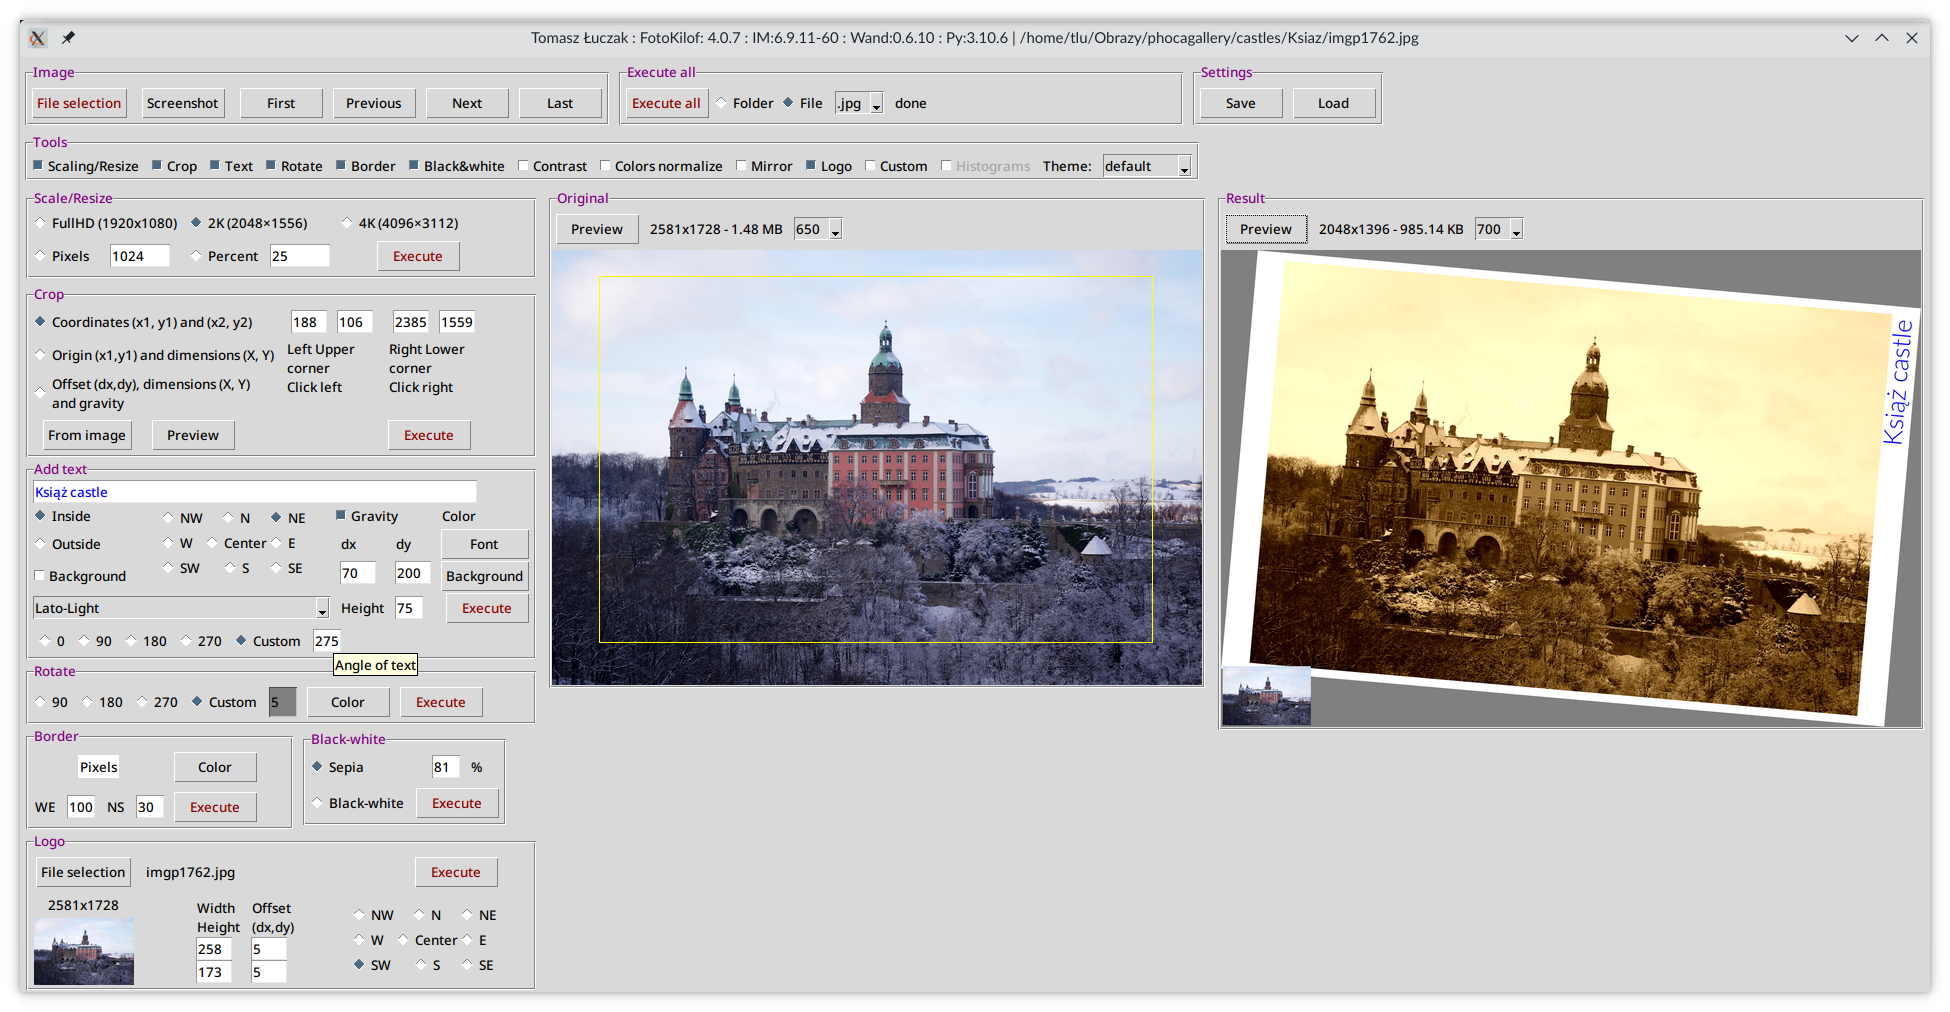
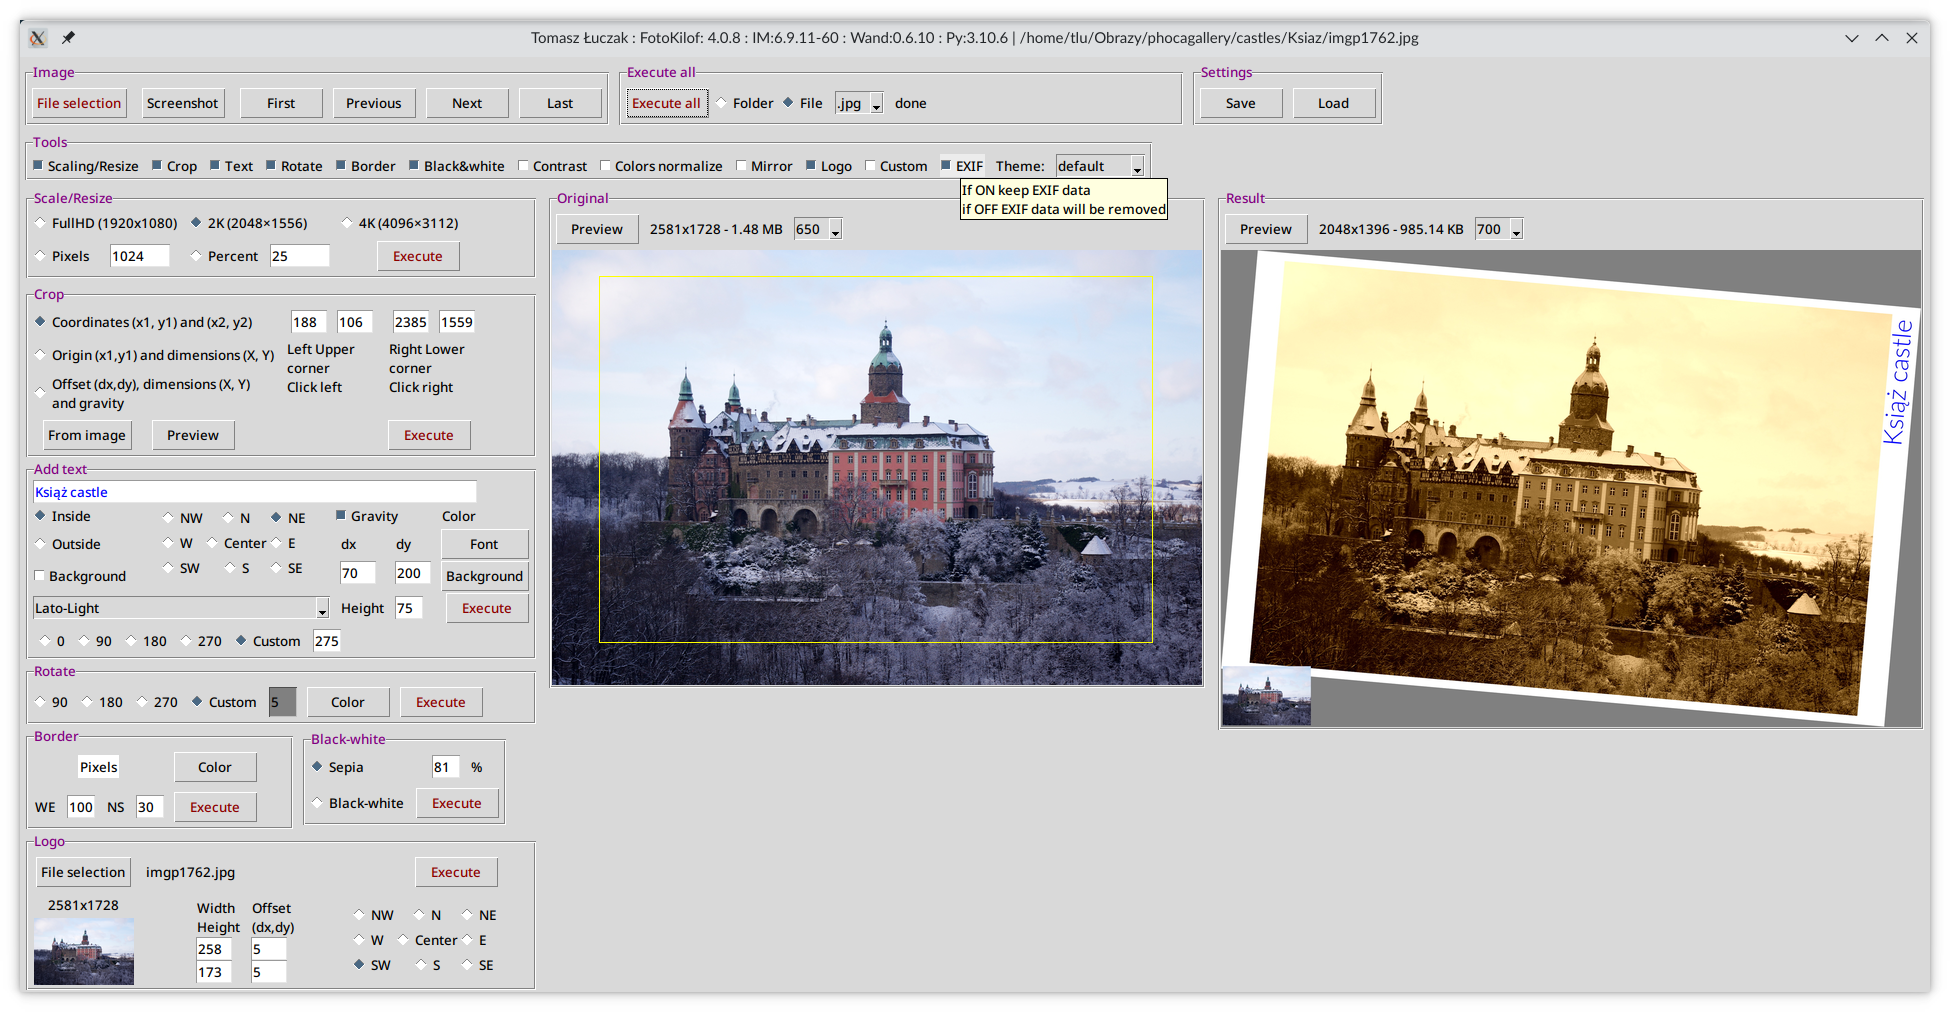
4.0.8 EXIF

Changed region(s): [[0.4923, 0.1532, 0.6154, 0.2144], [0.1538, 0.6433, 0.2154, 0.6739]]

diff --git a/fotokilof/fotokilof.py b/fotokilof/fotokilof.py
@@ -266,7 +266,7 @@ def apply_all_button():
                 convert_wand.pip(clone, file_logo_path.get(), coordinates, width, height)
 
             file_out = magick.pre_magick(file_in, subdir, co_apply_type.get())
-            convert_wand.save_close_clone(clone, file_out)
+            convert_wand.save_close_clone(clone, file_out, img_exif_on.get())
             preview_new(file_out)
             # progressbar
             i = i + 1
@@ -309,7 +309,7 @@ def convert_contrast_button():
     root.update_idletasks()
     clone = convert_wand.make_clone(file_in_path.get())
     convert_wand.contrast(clone, img_contrast.get(), co_contrast_selection.get(), e1_contrast.get(), e2_contrast.get())
-    convert_wand.save_close_clone(clone, path_to_file_out(0))
+    convert_wand.save_close_clone(clone, path_to_file_out(0), img_exif_on.get())
     preview_new(path_to_file_out(0))
     progress_files.set(_("done"))
 
@@ -320,7 +320,7 @@ def convert_bw_button():
     root.update_idletasks()
     clone = convert_wand.make_clone(file_in_path.get())
     convert_wand.bw(clone, img_bw.get(), e_bw_sepia.get())
-    convert_wand.save_close_clone(clone, path_to_file_out(0))
+    convert_wand.save_close_clone(clone, path_to_file_out(0), img_exif_on.get())
     preview_new(path_to_file_out(0))
     progress_files.set(_("done"))
 
@@ -342,7 +342,7 @@ def convert_rotate_button():
     root.update_idletasks()
     clone = convert_wand.make_clone(file_in_path.get())
     convert_wand.rotate(clone, img_rotate.get(), img_rotate_color.get(), e_rotate_own.get())
-    convert_wand.save_close_clone(clone, path_to_file_out(0))
+    convert_wand.save_close_clone(clone, path_to_file_out(0), img_exif_on.get())
     preview_new(path_to_file_out(0))
     progress_files.set(_("done"))
 
@@ -367,7 +367,7 @@ def convert_resize_button():
     file_out = path_to_file_out(1)
     clone = convert_wand.make_clone(file_in_path.get())
     convert_wand.resize(clone, resize_command[1])
-    convert_wand.save_close_clone(clone, file_out)
+    convert_wand.save_close_clone(clone, file_out, img_exif_on.get())
     preview_new(file_out)
     progress_files.set(_("done"))
 
@@ -378,7 +378,7 @@ def convert_border_button():
     root.update_idletasks()
     clone = convert_wand.make_clone(file_in_path.get())
     convert_wand.border(clone, img_border_color.get(), e_border_x.get(), e_border_y.get())
-    convert_wand.save_close_clone(clone, path_to_file_out(0))
+    convert_wand.save_close_clone(clone, path_to_file_out(0), img_exif_on.get())
     preview_new(path_to_file_out(0))
     progress_files.set(_("done"))
 
@@ -442,7 +442,7 @@ def convert_crop_button():
     root.update_idletasks()
     clone = convert_wand.make_clone(file_in_path.get())
     convert_wand.crop(file_in_path.get(), clone, img_crop.get(), img_crop_gravity.get(), convert_crop_entries())
-    convert_wand.save_close_clone(clone, path_to_file_out(0))
+    convert_wand.save_close_clone(clone, path_to_file_out(0), img_exif_on.get())
     preview_new(path_to_file_out(0))
     progress_files.set(_("done"))
 
@@ -457,7 +457,7 @@ def convert_text_button():
                                     img_text_gravity_onoff.get(), img_text_gravity.get(),
                                     img_text_box.get(), img_text_box_color.get(),
                                     e_text_x.get(), e_text_y.get(), e_text.get())
-    convert_wand.save_close_clone(clone, path_to_file_out(0))
+    convert_wand.save_close_clone(clone, path_to_file_out(0), img_exif_on.get())
     preview_new(path_to_file_out(0))
     progress_files.set(_("done"))
 
@@ -483,7 +483,7 @@ def convert_logo_button():
                     img_logo_gravity.get())
     clone = convert_wand.make_clone(file_in_path.get())
     convert_wand.pip(clone, file_logo_path.get(), coordinates, clone.width, clone.height )
-    convert_wand.save_close_clone(clone, path_to_file_out(0))
+    convert_wand.save_close_clone(clone, path_to_file_out(0), img_exif_on.get())
     preview_new(path_to_file_out(0))
     progress_files.set(_("done"))
 
@@ -749,6 +749,7 @@ def ini_read_wraper():
     file_in_path.set(ini_entries['file_in_path'])
     file_dir_selector.set(ini_entries['file_dir_selector'])
     work_dir.set(ini_entries['work_dir'])
+    img_exif_on.set(ini_entries['img_exif_on'])
     img_histograms_on.set(ini_entries['img_histograms_on'])
     co_theme_selector.current(theme_list.index(ini_entries['theme']))
     co_preview_selector_orig.current(preview_size_list.index(ini_entries['preview_orig']))
@@ -880,6 +881,7 @@ def ini_save():
     config.set('Konfiguracja', 'path', file_in_path.get())
     config.set('Konfiguracja', 'work_dir', work_dir.get())
     config.set('Konfiguracja', 'file_dir', str(file_dir_selector.get()))
+    config.set('Konfiguracja', 'exif', str(img_exif_on.get()))
     config.set('Konfiguracja', 'histograms', str(img_histograms_on.get()))
     config.set('Konfiguracja', 'theme', co_theme_selector.get())
     config.set('Konfiguracja', 'preview_orig', co_preview_selector_orig.get())
@@ -1413,6 +1415,7 @@ img_mirror_flip = IntVar()  # (0, 1)
 img_mirror_flop = IntVar()  # (0, 1)
 contrast_selection = ("+3", "+2", "+1", "0", "-1", "-2", "-3")
 img_custom_on = IntVar()  # Custom
+img_exif_on = IntVar()
 progress_var = IntVar()  # progressbar
 progress_files = StringVar()
 file_extension = (".jpeg", ".jpg", ".png", ".tif")
@@ -1564,6 +1567,10 @@ cb_custom = ttk.Checkbutton(frame_tools_set, text=_("Custom"),
                             variable=img_custom_on,
                             offvalue="0", onvalue="1",
                             command=tools_set_off)
+cb_exif = ttk.Checkbutton(frame_tools_set, text=_("EXIF"),
+                                variable=img_exif_on,
+                                offvalue="0", onvalue="1",
+                                command=tools_set_off)
 cb_histograms = ttk.Checkbutton(frame_tools_set, text=_("Histograms"),
                                 variable=img_histograms_on,
                                 offvalue="0", onvalue="1",
@@ -1585,7 +1592,8 @@ cb_normalize.pack(padx=5, pady=1, anchor=W, side='left')
 cb_mirror.pack(padx=5, pady=1, anchor=W, side='left')
 cb_logo.pack(padx=5, pady=1, anchor=W, side='left')
 cb_custom.pack(padx=5, pady=1, anchor=W, side='left')
-cb_histograms.pack(padx=5, pady=1, anchor=W, side='left')
+cb_exif.pack(padx=5, pady=1, anchor=W, side='left')
+#cb_histograms.pack(padx=5, pady=1, anchor=W, side='left')
 l_theme_selector.pack(padx=5, pady=1, anchor=W, side='left')
 co_theme_selector.pack(padx=5, pady=1, anchor=W, side='left')
 
@@ -2249,6 +2257,7 @@ root.bind("<End>", open_file_last_key)
 # toolTips
 ###############################################################################
 # Text
+Hovertip(cb_exif, _("If ON keep EXIF data\nif OFF EXIF data will be removed"))
 Hovertip(e_text_size, _("Text size"))
 Hovertip(e_text_angle, _("Angle of text"))
 Hovertip(co_text_font, _("Font"))

diff --git a/fotokilof/preview.py b/fotokilof/preview.py
@@ -103,7 +103,7 @@ def preview_wand(file_in, size, coord):
             file_preview = os.path.join(tempfile.gettempdir(),
                                             "fotokilof_" + os.getlogin() \
                                             + "_preview.ppm")
-            convert_wand.save_close_clone(clone, file_preview)
+            convert_wand.save_close_clone(clone, file_preview, 0)
             result = {'filename': file_preview,
                           'size': filesize,
                           'width': str(width),

diff --git a/fotokilof/ini_read.py b/fotokilof/ini_read.py
@@ -72,6 +72,12 @@ def ini_read(file_ini, theme_list, preview_size_list):
     dict_return['file_dir_selector'] = entries.parse_list(file_dir_select, (0, 1), 0)
 
     try:
+        exif = config.getint('Konfiguracja', 'exif')
+    except:
+        exif = "0"
+    dict_return['img_exif_on'] = entries.parse_list(exif, (0, 1), 0)
+
+    try:
         histograms = config.getint('Konfiguracja', 'histograms')
     except:
         histograms = "0"

diff --git a/fotokilof/convert_wand.py b/fotokilof/convert_wand.py
@@ -67,8 +67,10 @@ def make_clone(file_in):
         clone = image.clone()
         return clone
 
-def save_close_clone(clone, file_out):
+def save_close_clone(clone, file_out, exif):
     """ save and close clone after processing """
+    if not exif:
+        clone.strip()
     clone.save(filename=file_out) 
     clone.close()
 

diff --git a/fotokilof/version.py b/fotokilof/version.py
@@ -22,7 +22,7 @@ OUT OF OR IN CONNECTION WITH THE SOFTWARE OR THE USE OR OTHER DEALINGS IN
 THE SOFTWARE.
 """
 
-__version__ = "4.0.7"
+__version__ = "4.0.8"
 __author__ = "Tomasz Łuczak"
 __email__ = "tlu@team-tl.pl"
 __appname__ = "FotoKilof"

diff --git a/README.md b/README.md
@@ -27,7 +27,7 @@ GUI for the most used (by me) ImageMagick functionality for processing pictures.
  - black-white or sepia,
  - contrast increase/decrease or normalize or histogram stretching,
  - color auto-level or equalize,
- - adding logo image o picture,
+ - adding logo image on picture,
  - file formats: JPG, PNG, TIFF, SVG
  - format conversion into JPG, PNG, TIFF.
 
@@ -47,10 +47,11 @@ GUI for the most used (by me) ImageMagick functionality for processing pictures.
    - two corners (upper left and lower right),
    - upper left corner and width plus height,
    - gravity, width plus height plus offset,
- - text: color, font and size selection, background
+ - text: color, font and size selection, background, rotation,
  - text position:
    - outside: top/bottom, left/center/right
    - inside: by gravity or by position
+   - rotation
  - customized sepia,
  - equalize by channel,
  - contrast between -3 and +3,
@@ -58,7 +59,26 @@ GUI for the most used (by me) ImageMagick functionality for processing pictures.
  - logo position by gravity, size and offset,
  - histograms of original and result pictures (temporary disabled),
  - fast file navigation: First, Prev, Next, Last,
- - is possible to use other ImageMagick commands, eg. *-gaussian-blur* etc. in command editor.
+ - is possible to use other ImageMagick commands, eg. *-gaussian-blur* etc. In command editor - doesn't work under Windows11
+
+## Processing
+
+Is possible to run one conversion or all selected conversion.
+Processing order for all selected conversion:
+
+- crop,
+- mirror,
+- black-white/sepia,
+- contrast,
+- color normalize,
+- border,
+- rotate,
+- resize,
+- text,
+- logo.
+
+Processed is always on clone of picture in memory. Originals are not touched.
+
 
 ## User manual
 
@@ -67,7 +87,7 @@ GUI for the most used (by me) ImageMagick functionality for processing pictures.
 
 ## Available translations
 
-Available: English, Polish, German, Bulgarian and Indonesian.
+Available: Bulgarian, English, German, Indonesian, Polish and Turkish.
 
 ## Install and run
 
@@ -76,7 +96,7 @@ Available: English, Polish, German, Bulgarian and Indonesian.
 - Windows, Linux, MacOS X, BSD,
 - FullHD screen for comfort work,
 - [ImageMagick](https://imagemagick.org/), remember to add path into `%PATH%` environment variable, enable install libraries!
-- [Python](https://www.python.org/), remember to add path into `%PATH%` environment variable.
+- [Python3](https://www.python.org/), remember to add path into `%PATH%` environment variable.
 
 ### Install
 

diff --git a/CHANGES.md b/CHANGES.md
@@ -2,6 +2,8 @@
 
 ## 2022
 
+4.0.8 added EXIF strip/keep
+
 4.0.7 fixed preview for resized picture
 
 4.0.6 added rotation of text, tooltips
